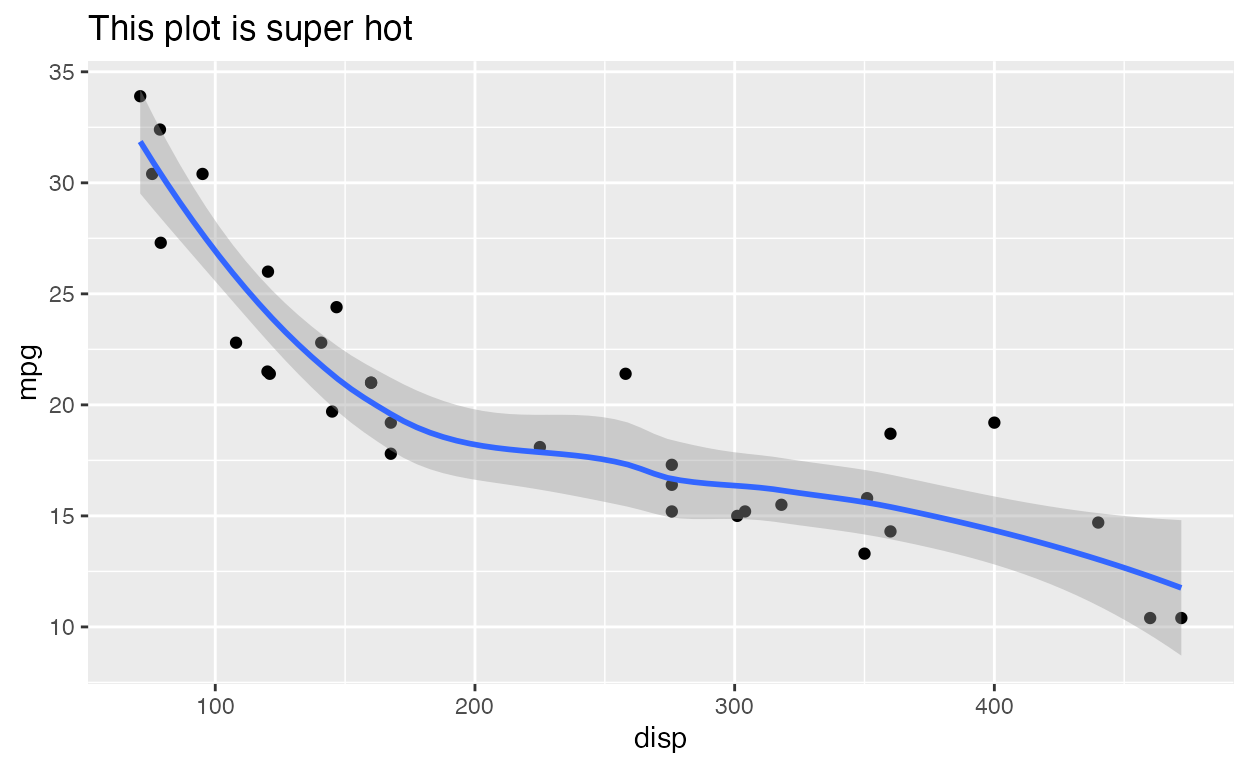
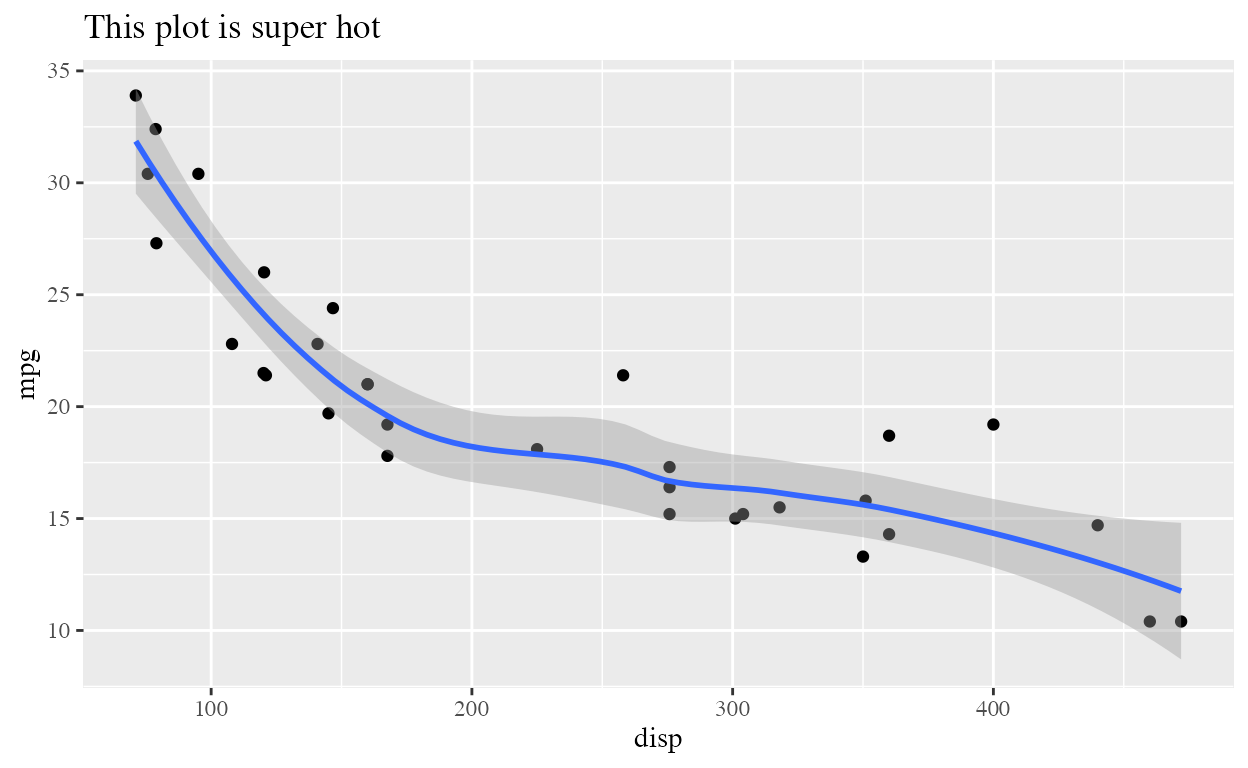
Font family update

diff --git a/_posts/2021-02-24-need-to-add-some-catpix/need-to-add-some-catpix.html b/_posts/2021-02-24-need-to-add-some-catpix/need-to-add-some-catpix.html
@@ -1488,15 +1488,11 @@ code span.wa { color: #5e5e5e; font-style: italic; } /* Warning */
 <span class='fu'>ggplot</span><span class='op'>(</span><span class='va'>mtcars</span>, <span class='fu'>aes</span><span class='op'>(</span><span class='va'>disp</span>, <span class='va'>mpg</span><span class='op'>)</span><span class='op'>)</span> <span class='op'>+</span>
   <span class='fu'>geom_point</span><span class='op'>(</span><span class='op'>)</span> <span class='op'>+</span>
   <span class='fu'>geom_smooth</span><span class='op'>(</span><span class='op'>)</span> <span class='op'>+</span>
-  <span class='fu'>labs</span><span class='op'>(</span>title <span class='op'>=</span> <span class='st'>"This plot is super hot"</span><span class='op'>)</span>
+  <span class='fu'>labs</span><span class='op'>(</span>title <span class='op'>=</span> <span class='st'>"This plot is super hot"</span><span class='op'>)</span><span class='op'>+</span>
+  <span class='fu'>theme</span><span class='op'>(</span>text <span class='op'>=</span> <span class='fu'>element_text</span><span class='op'>(</span>family <span class='op'>=</span> <span class='st'>"serif"</span><span class='op'>)</span><span class='op'>)</span>
 </code></pre>
 </div>
-<img src="need-to-add-some-catpix_files/figure-html5/unnamed-chunk-1-1.png" width="624" />
-<div class="sourceCode">
-<pre class="sourceCode r"><code class="sourceCode r"><span class='co'>#+</span>
- <span class='co'># theme(text = element_text(family = "Roboto"))</span>
-</code></pre>
-</div>
+<p><img src="need-to-add-some-catpix_files/figure-html5/unnamed-chunk-1-1.png" width="624" /></p>
 </div>
 <div class="sourceCode" id="cb1"><pre class="sourceCode r distill-force-highlighting-css"><code class="sourceCode r"></code></pre></div>
 <!--radix_placeholder_article_footer-->

diff --git a/docs/posts/2021-02-24-need-to-add-some-catpix/index.html b/docs/posts/2021-02-24-need-to-add-some-catpix/index.html
@@ -2108,15 +2108,11 @@ document.addEventListener('DOMContentLoaded', function() {
 <span class='fu'>ggplot</span><span class='op'>(</span><span class='va'>mtcars</span>, <span class='fu'>aes</span><span class='op'>(</span><span class='va'>disp</span>, <span class='va'>mpg</span><span class='op'>)</span><span class='op'>)</span> <span class='op'>+</span>
   <span class='fu'>geom_point</span><span class='op'>(</span><span class='op'>)</span> <span class='op'>+</span>
   <span class='fu'>geom_smooth</span><span class='op'>(</span><span class='op'>)</span> <span class='op'>+</span>
-  <span class='fu'>labs</span><span class='op'>(</span>title <span class='op'>=</span> <span class='st'>"This plot is super hot"</span><span class='op'>)</span>
+  <span class='fu'>labs</span><span class='op'>(</span>title <span class='op'>=</span> <span class='st'>"This plot is super hot"</span><span class='op'>)</span><span class='op'>+</span>
+  <span class='fu'>theme</span><span class='op'>(</span>text <span class='op'>=</span> <span class='fu'>element_text</span><span class='op'>(</span>family <span class='op'>=</span> <span class='st'>"serif"</span><span class='op'>)</span><span class='op'>)</span>
 </code></pre>
 </div>
-<img src="need-to-add-some-catpix_files/figure-html5/unnamed-chunk-1-1.png" width="624" />
-<div class="sourceCode">
-<pre class="sourceCode r"><code class="sourceCode r"><span class='co'>#+</span>
- <span class='co'># theme(text = element_text(family = "Roboto"))</span>
-</code></pre>
-</div>
+<p><img src="need-to-add-some-catpix_files/figure-html5/unnamed-chunk-1-1.png" width="624" /></p>
 </div>
 <div class="sourceCode" id="cb1"><pre class="sourceCode r distill-force-highlighting-css"><code class="sourceCode r"></code></pre></div>
 <!--radix_placeholder_article_footer-->
